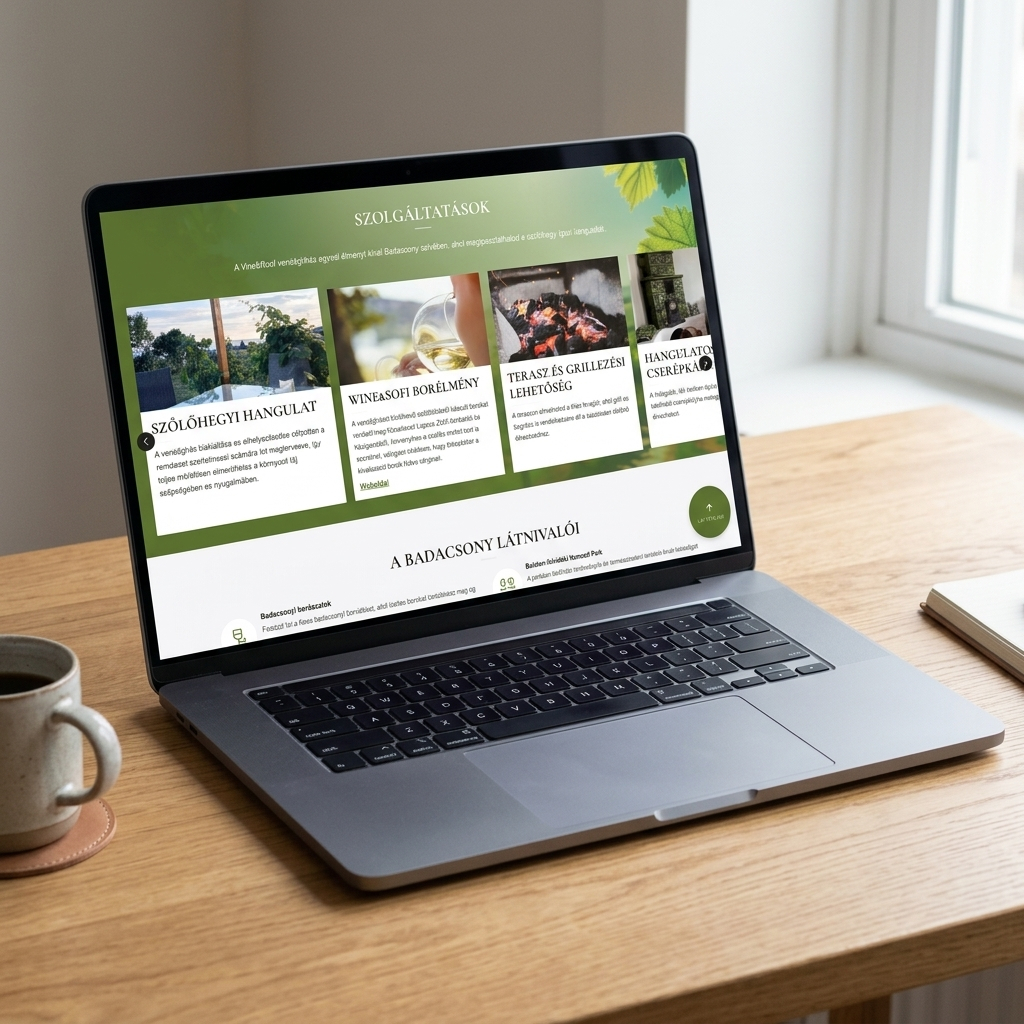
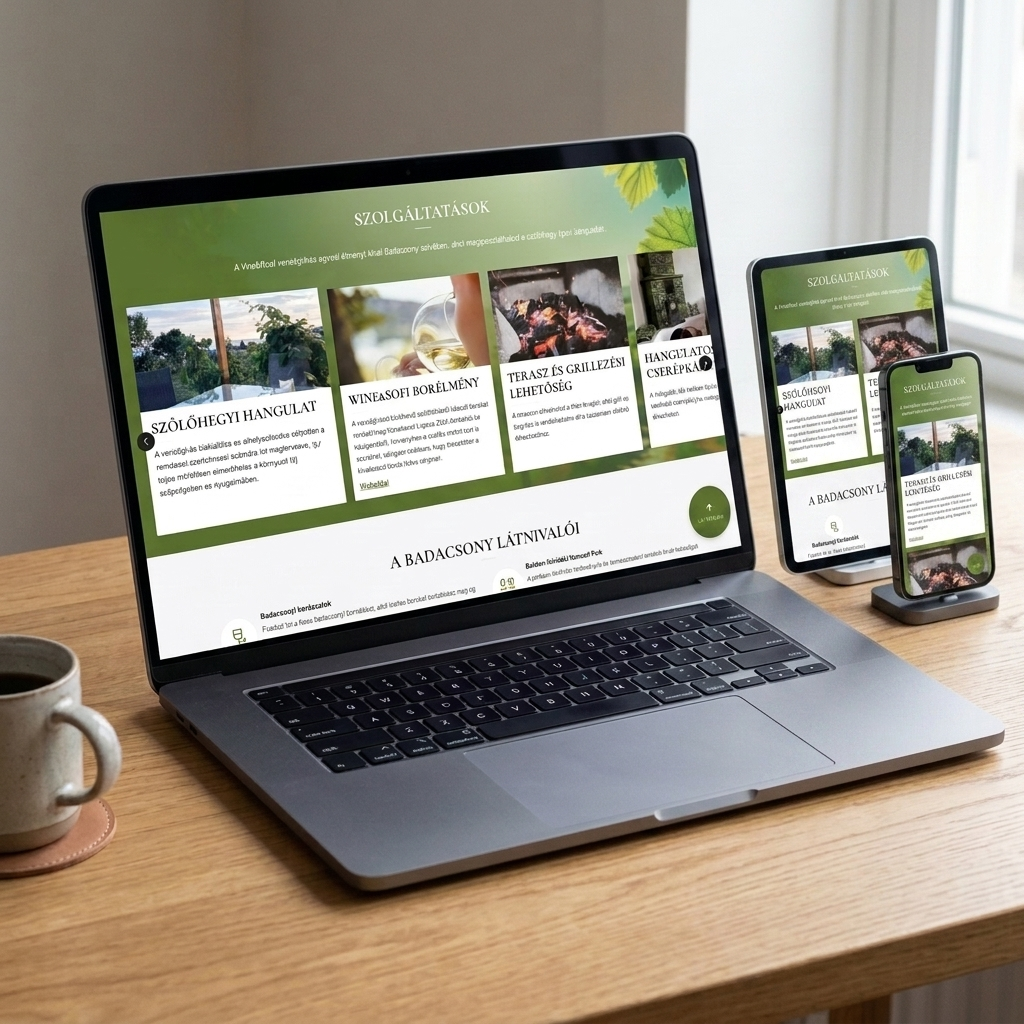
design: update Vine&Roof mockup to show laptop, tablet, and phone side-by-side

Changed region(s): [[0.6875, 0.2188, 1.0, 0.7188], [0.5, 0.3125, 0.5312, 0.3438], [0.125, 0.3125, 0.1562, 0.3438]]

diff --git a/index.html b/index.html
@@ -16,7 +16,7 @@
     <meta property="og:description" content="Egyedi, prémium minőségű weboldalak tervezése és fejlesztése elképesztő sebességgel és keresőoptimalizált kóddal.">
     
     <!-- CSS stylesheet -->
-    <link rel="stylesheet" href="style.css?v=18">
+    <link rel="stylesheet" href="style.css?v=19">
 </head>
 <body>
 
@@ -175,7 +175,7 @@
                     <!-- Project 2 -->
                     <div class="portfolio-card glass-card">
                         <div class="portfolio-image-wrap">
-                            <img src="portfolio-hotel.png?v=18" alt="Vine&Roof Panoramic Guesthouse Mockup" class="portfolio-img">
+                            <img src="portfolio-hotel.png?v=19" alt="Vine&Roof Panoramic Guesthouse Mockup" class="portfolio-img">
                             <div class="portfolio-hover-overlay">
                                 <span class="portfolio-badge">180° balatoni panoráma</span>
                                 <span class="portfolio-category">Bemutatkozó & Foglalási oldal</span>
@@ -572,6 +572,6 @@
     </footer>
 
     <!-- JS Logic -->
-    <script src="app.js?v=18"></script>
+    <script src="app.js?v=19"></script>
 </body>
 </html>